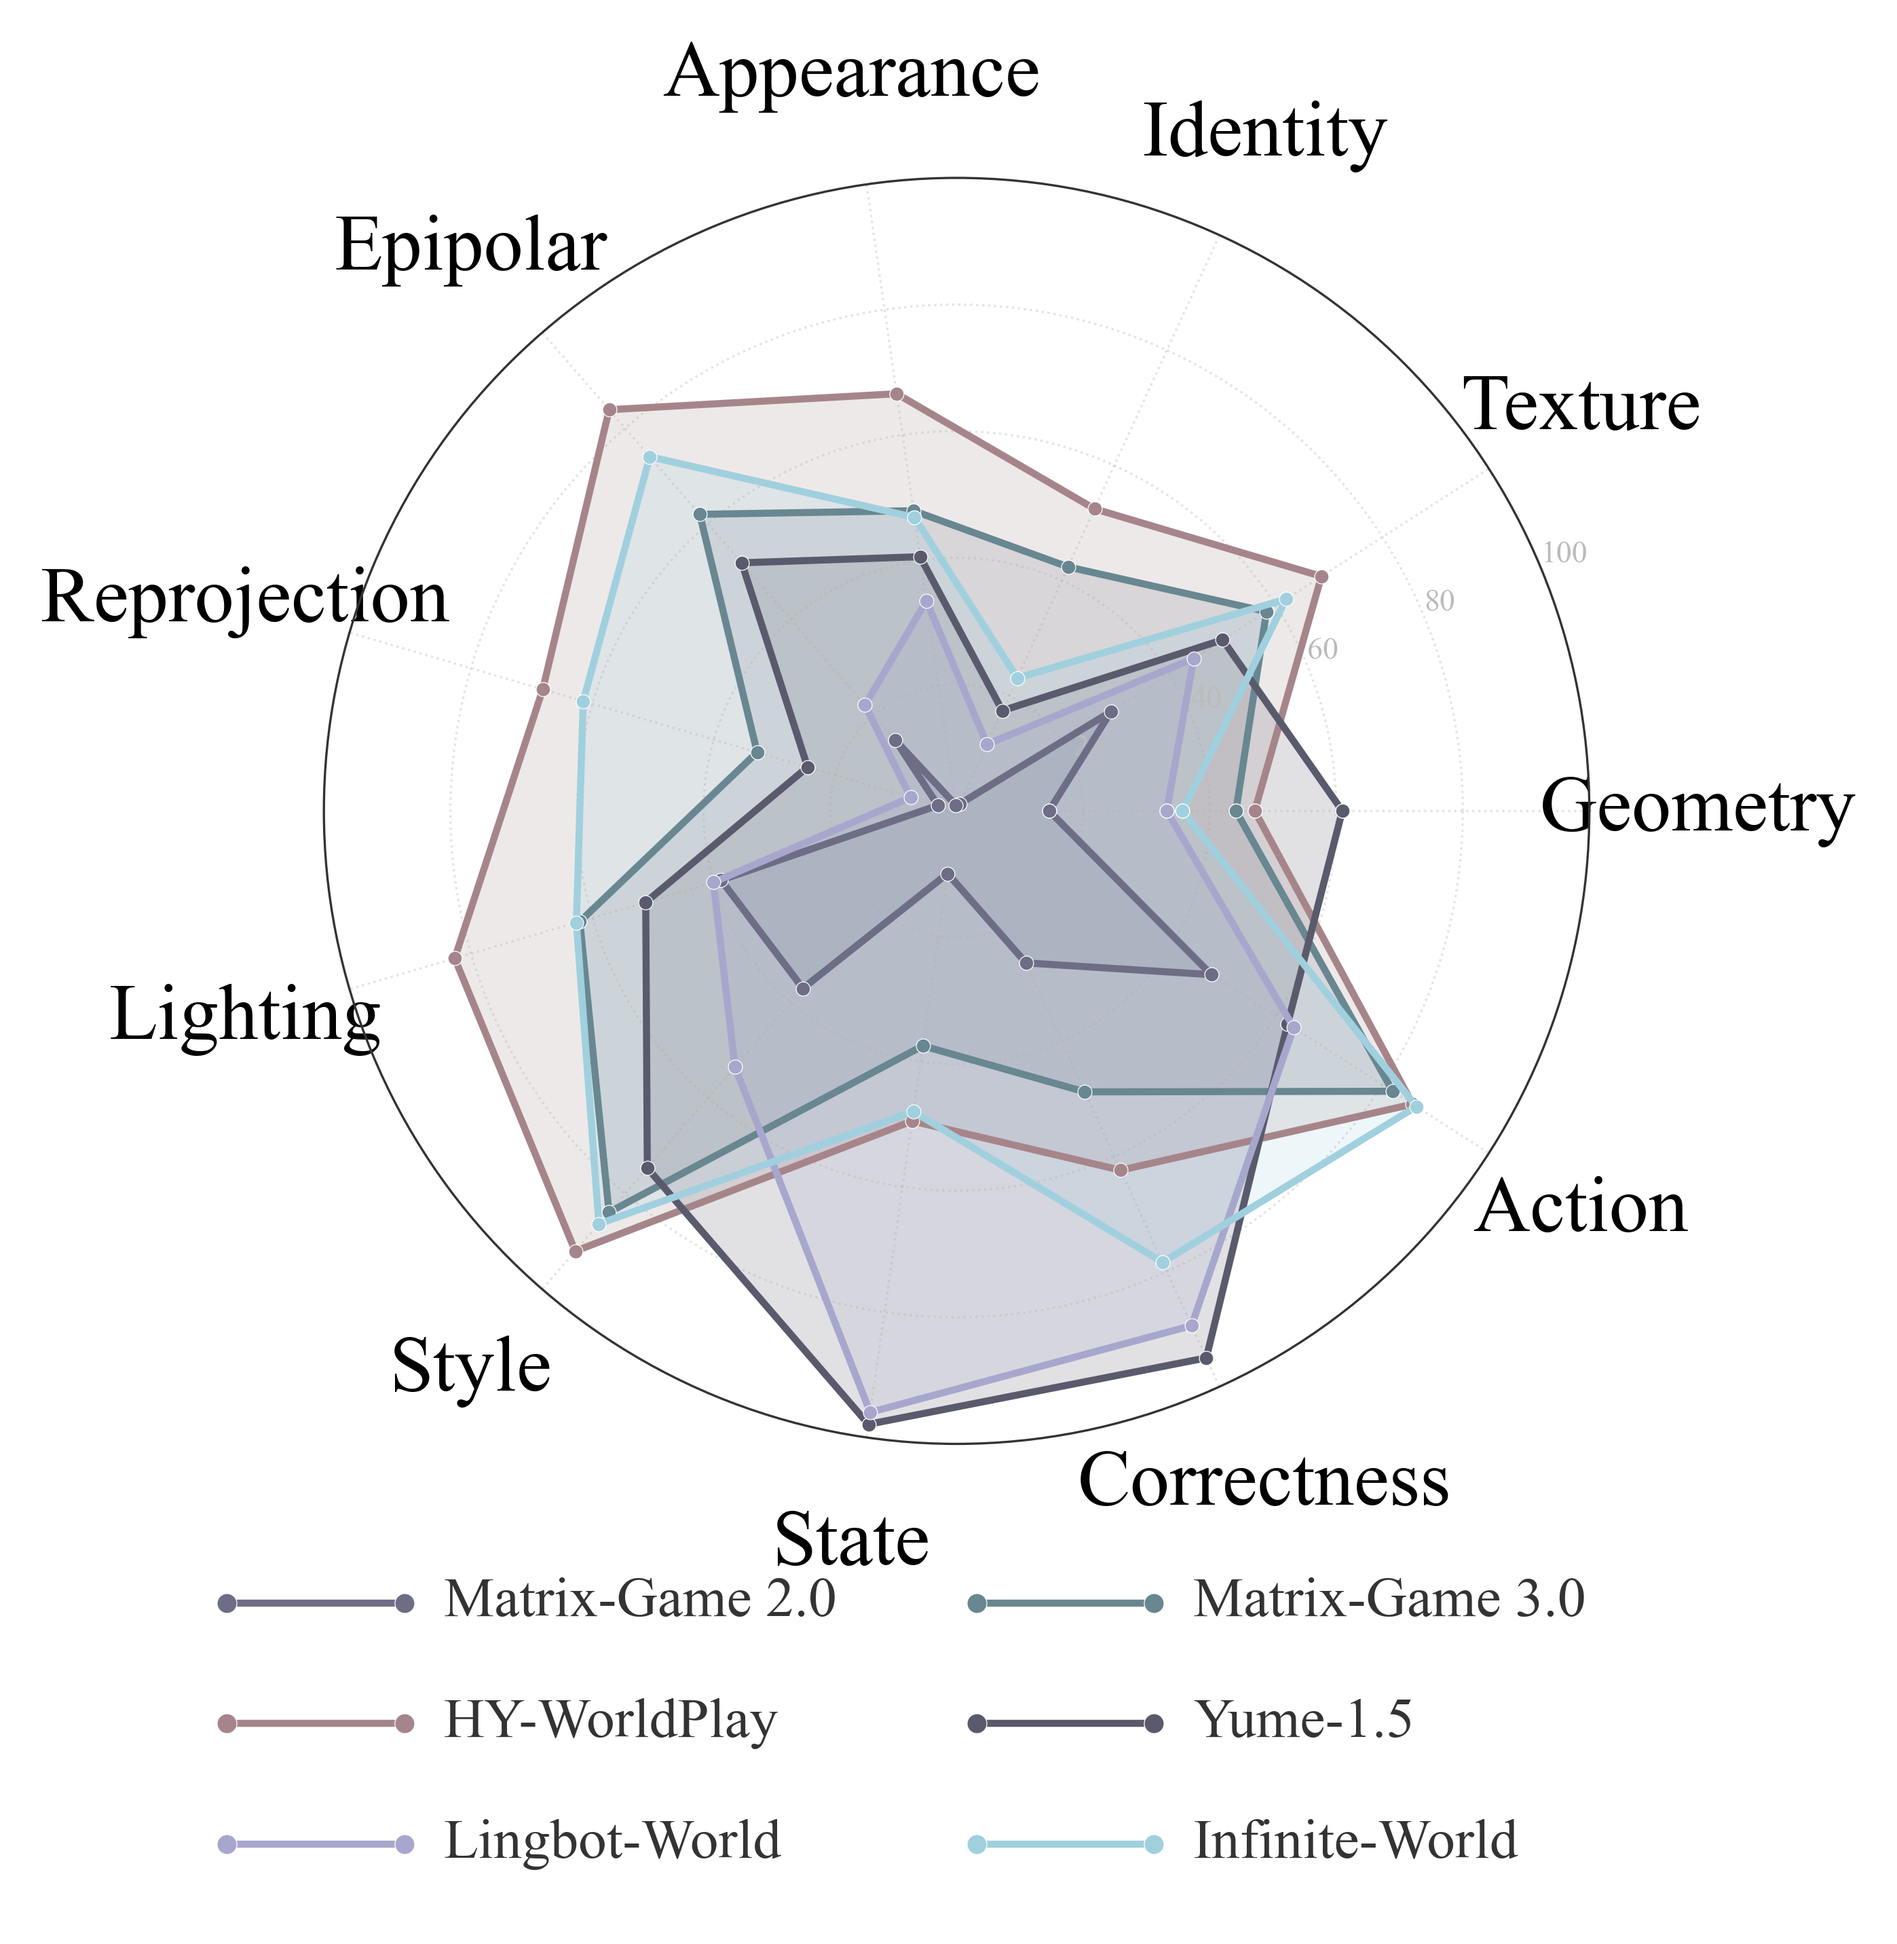
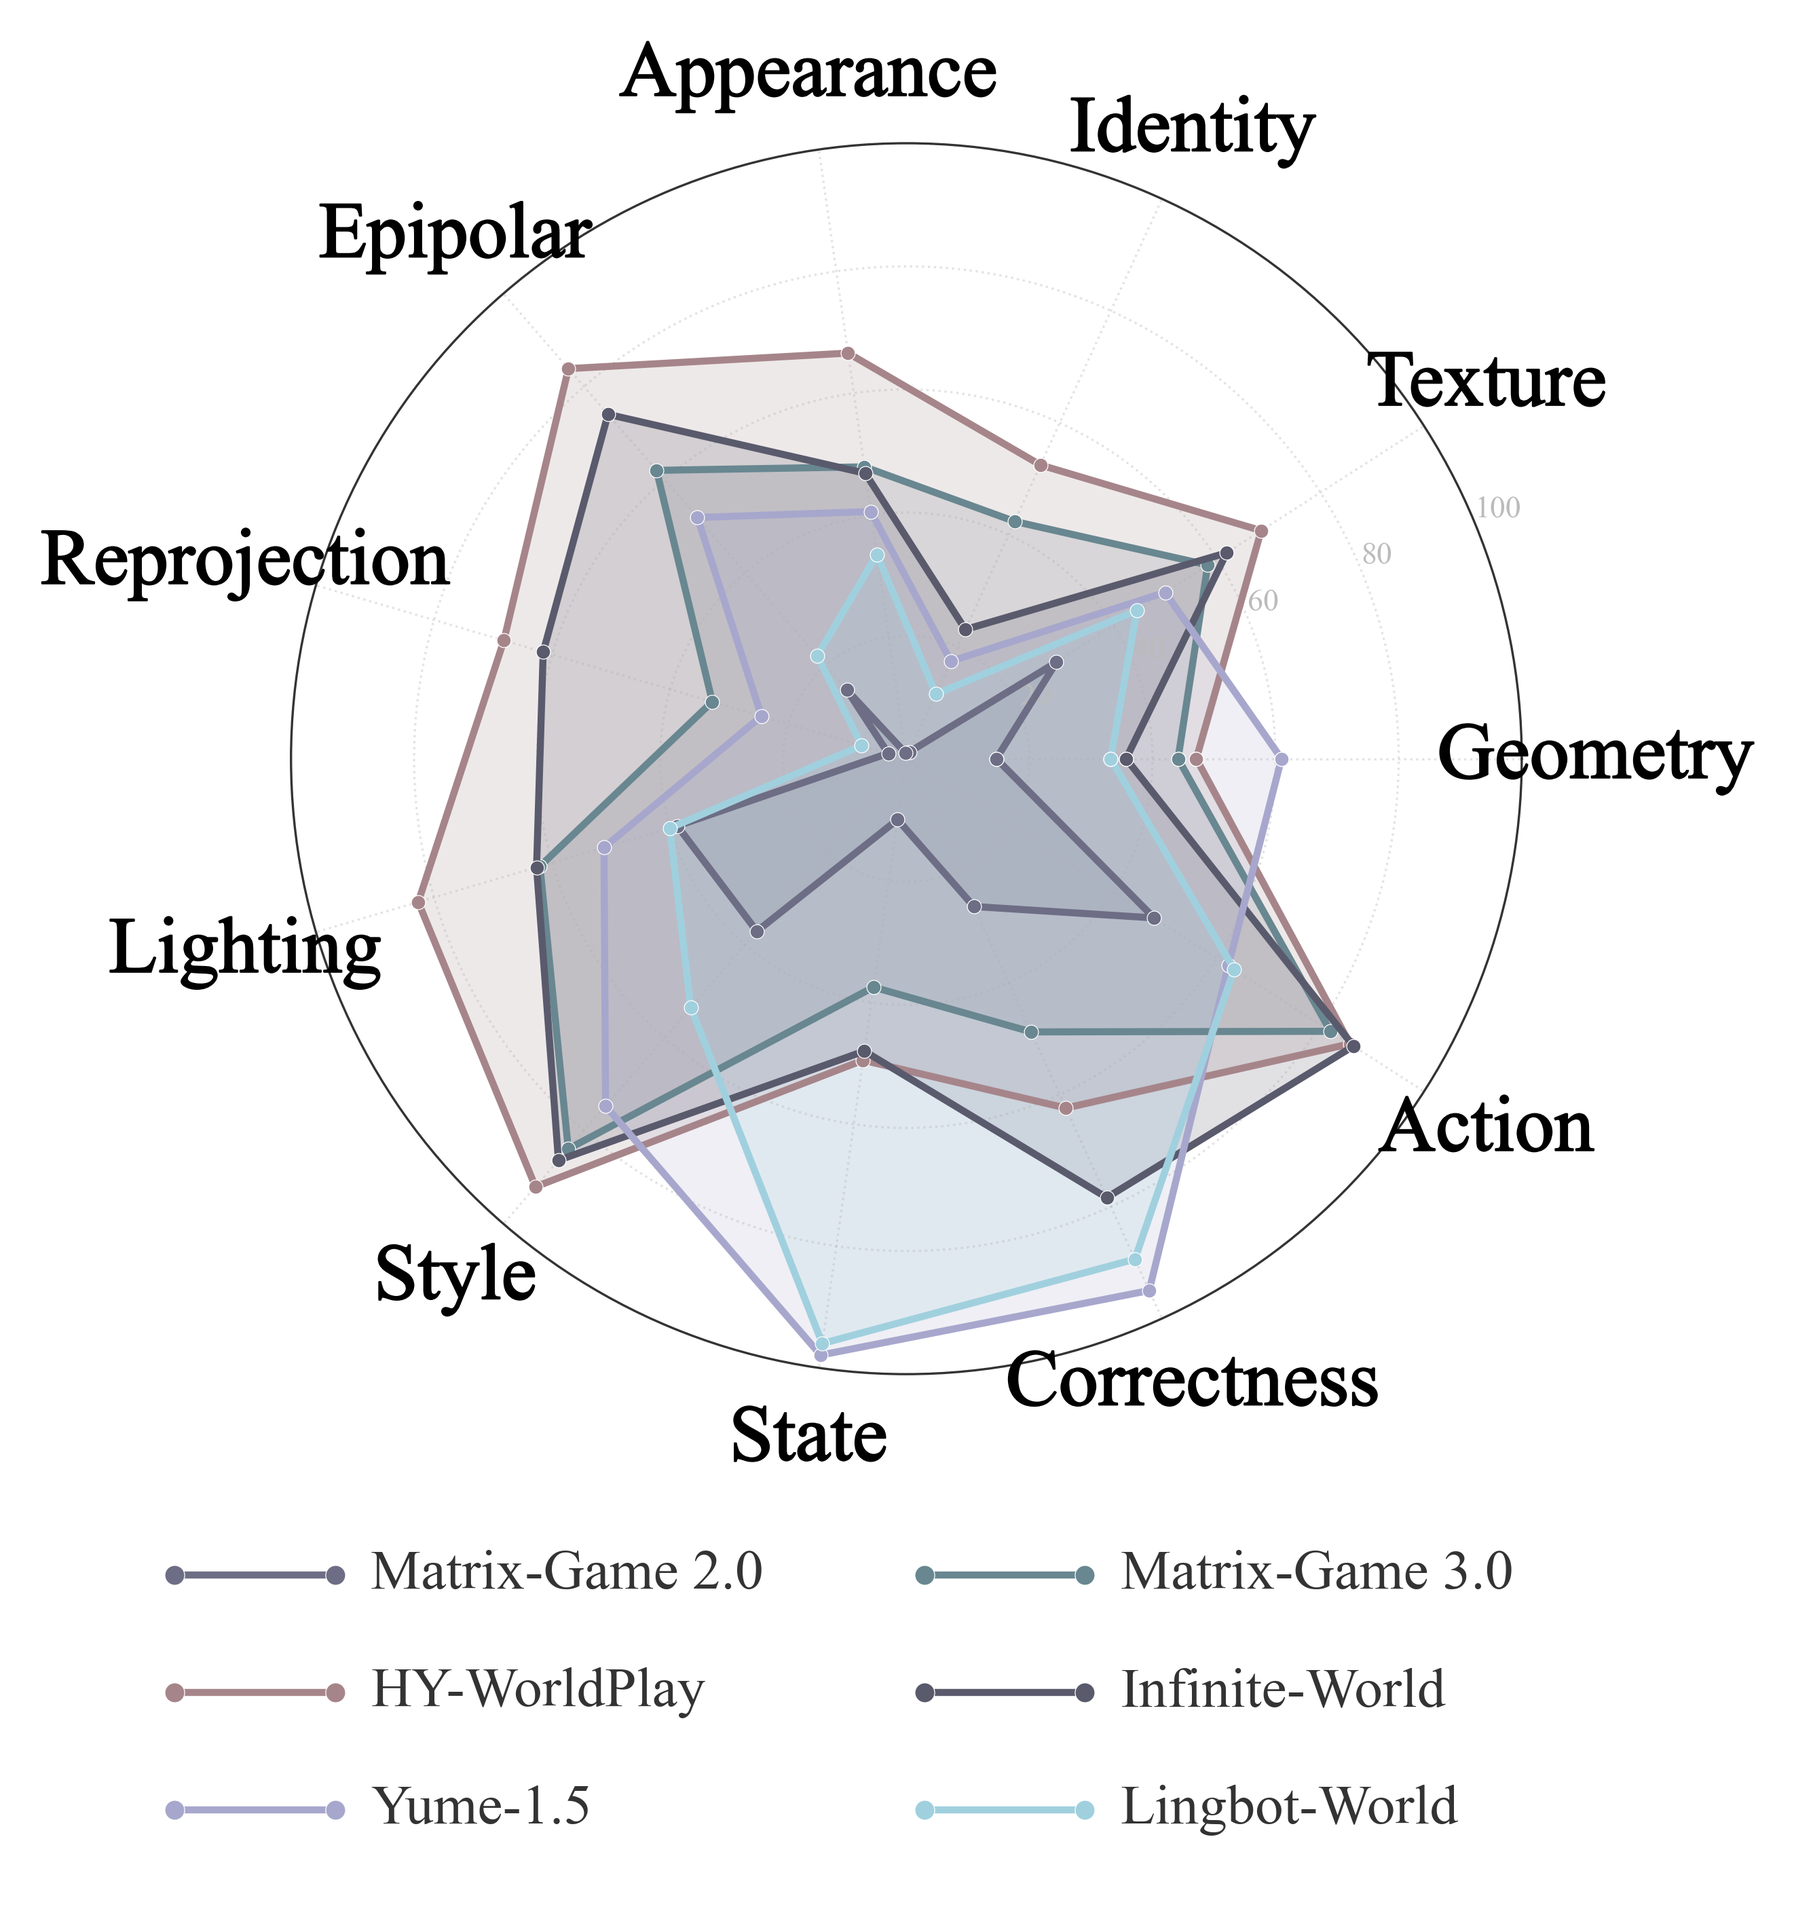
prompt-dist

diff --git a/script.js b/script.js
@@ -197,54 +197,56 @@ function initTableInteractions() {
   const table = document.querySelector(".table-wrap table");
   if (!table) return;
 
-  // Column Sorting
-  const headers = table.querySelectorAll("th");
+  const headers = Array.from(table.querySelectorAll("th"));
   const tbody = table.querySelector("tbody");
-  
+  if (!tbody) return;
+
   headers.forEach((th, index) => {
-    th.style.cursor = "pointer";
-    th.title = "Click to sort";
-    let sortAsc = false;
-    
+    const label = th.textContent.trim();
+    th.classList.add("sortable");
+    th.dataset.label = label;
+    th.title = "Click column name to sort";
+    th.innerHTML = `<span class="sort-label"></span><span class="sort-indicator" aria-hidden="true"></span>`;
+    th.querySelector(".sort-label").textContent = label;
+
     th.addEventListener("click", () => {
-      // Clear visual sort indicators from other headers
-      headers.forEach(h => {
-        if (h !== th) h.innerHTML = h.innerHTML.replace(/( <span.*?>[↑↓]<\/span>)$/, "");
+      const nextDirection = th.dataset.sortDirection === "asc" ? "desc" : "asc";
+
+      headers.forEach((header) => {
+        header.classList.remove("sorted-asc", "sorted-desc");
+        header.removeAttribute("data-sort-direction");
+        header.setAttribute("aria-sort", "none");
+        const indicator = header.querySelector(".sort-indicator");
+        if (indicator) indicator.textContent = "";
       });
-      
-      sortAsc = !sortAsc;
-      
-      // Update this header's sort indicator
-      const text = th.innerHTML.replace(/( <span.*?>[↑↓]<\/span>)$/, "");
-      th.innerHTML = `${text} <span style="font-size:0.8em; opacity:0.7;">${sortAsc ? "↑" : "↓"}</span>`;
-      
-      // Sort rows
+
+      th.dataset.sortDirection = nextDirection;
+      th.classList.add(nextDirection === "asc" ? "sorted-asc" : "sorted-desc");
+      th.setAttribute("aria-sort", nextDirection === "asc" ? "ascending" : "descending");
+      const indicator = th.querySelector(".sort-indicator");
+      if (indicator) indicator.textContent = nextDirection === "asc" ? "↑" : "↓";
+
       const rows = Array.from(tbody.querySelectorAll("tr"));
       rows.sort((a, b) => {
         const valA = a.cells[index].innerText.trim();
         const valB = b.cells[index].innerText.trim();
-        
-        // Parse float carefully (handle '-')
         const numA = parseFloat(valA);
         const numB = parseFloat(valB);
-        const isNumA = !isNaN(numA) && valA !== '-';
-        const isNumB = !isNaN(numB) && valB !== '-';
-        
+        const isNumA = !Number.isNaN(numA) && valA !== "-";
+        const isNumB = !Number.isNaN(numB) && valB !== "-";
+
         if (isNumA && isNumB) {
-          return sortAsc ? numA - numB : numB - numA;
-        } else if (isNumA && !isNumB) {
-          // Numbers always sort before '-'
-          return sortAsc ? -1 : -1;
-        } else if (!isNumA && isNumB) {
-          return sortAsc ? 1 : 1;
-        } else {
-          return sortAsc ? valA.localeCompare(valB) : valB.localeCompare(valA);
+          return nextDirection === "asc" ? numA - numB : numB - numA;
         }
+
+        if (isNumA !== isNumB) {
+          return isNumA ? -1 : 1;
+        }
+
+        return nextDirection === "asc" ? valA.localeCompare(valB) : valB.localeCompare(valA);
       });
-      
-      // Re-append sorted rows
-      tbody.innerHTML = "";
-      rows.forEach(row => tbody.appendChild(row));
+
+      rows.forEach((row) => tbody.appendChild(row));
     });
   });
 }

diff --git a/index.html b/index.html
@@ -300,7 +300,7 @@
         <h2 class="section-title">Evaluation Protocol</h2>
         <p class="section-intro">
           MBench uses Trigger-Conditioned Scoring to avoid rewarding models that preserve consistency only by avoiding the
-          memory challenge. A generated video must first enter the intended trigger state before memory reliability is scored.
+          memory challenge. A generated video must first enter the intended state before post-event consistency is scored.
         </p>
 
         <div class="protocol-grid">
@@ -322,7 +322,7 @@
           <article>
             <span>04</span>
             <h3>Score Reliability</h3>
-            <p>Evaluate consistency only on triggered samples, then combine reliability and trigger coverage with the M-Score harmonic mean.</p>
+            <p>Evaluate consistency only on valid samples, then aggregate the post-event consistency scores with the M-Score formulation.</p>
           </article>
         </div>
 
@@ -361,7 +361,7 @@
 
         <div class="dataset-stack">
           <figure class="dataset-figure">
-            <img src="assets/dist.png" alt="Prompt and action distribution statistics from MBench" />
+            <img src="assets/prompt-statistics.png" alt="Prompt and action distribution statistics from MBench" />
             <figcaption>Prompt suite statistics from the paper: prompt distribution, text prompt cloud, and action distribution.</figcaption>
           </figure>
 

diff --git a/style.css b/style.css
@@ -491,6 +491,37 @@ th {
   white-space: nowrap;
 }
 
+th.sortable {
+  cursor: pointer;
+  user-select: none;
+  transition: color 0.18s ease, background-color 0.18s ease;
+}
+
+th.sortable:hover {
+  color: var(--violet);
+  background: #f8f3ff;
+}
+
+th.sorted-asc,
+th.sorted-desc {
+  color: var(--violet);
+  background: #f4ecff;
+}
+
+.sort-label {
+  pointer-events: none;
+}
+
+.sort-indicator {
+  display: inline-block;
+  min-width: 0.8em;
+  margin-left: 4px;
+  color: #9b7bd1;
+  font-size: 0.9em;
+  font-weight: 800;
+  pointer-events: none;
+}
+
 td {
   color: var(--text);
   font-size: 12px;
